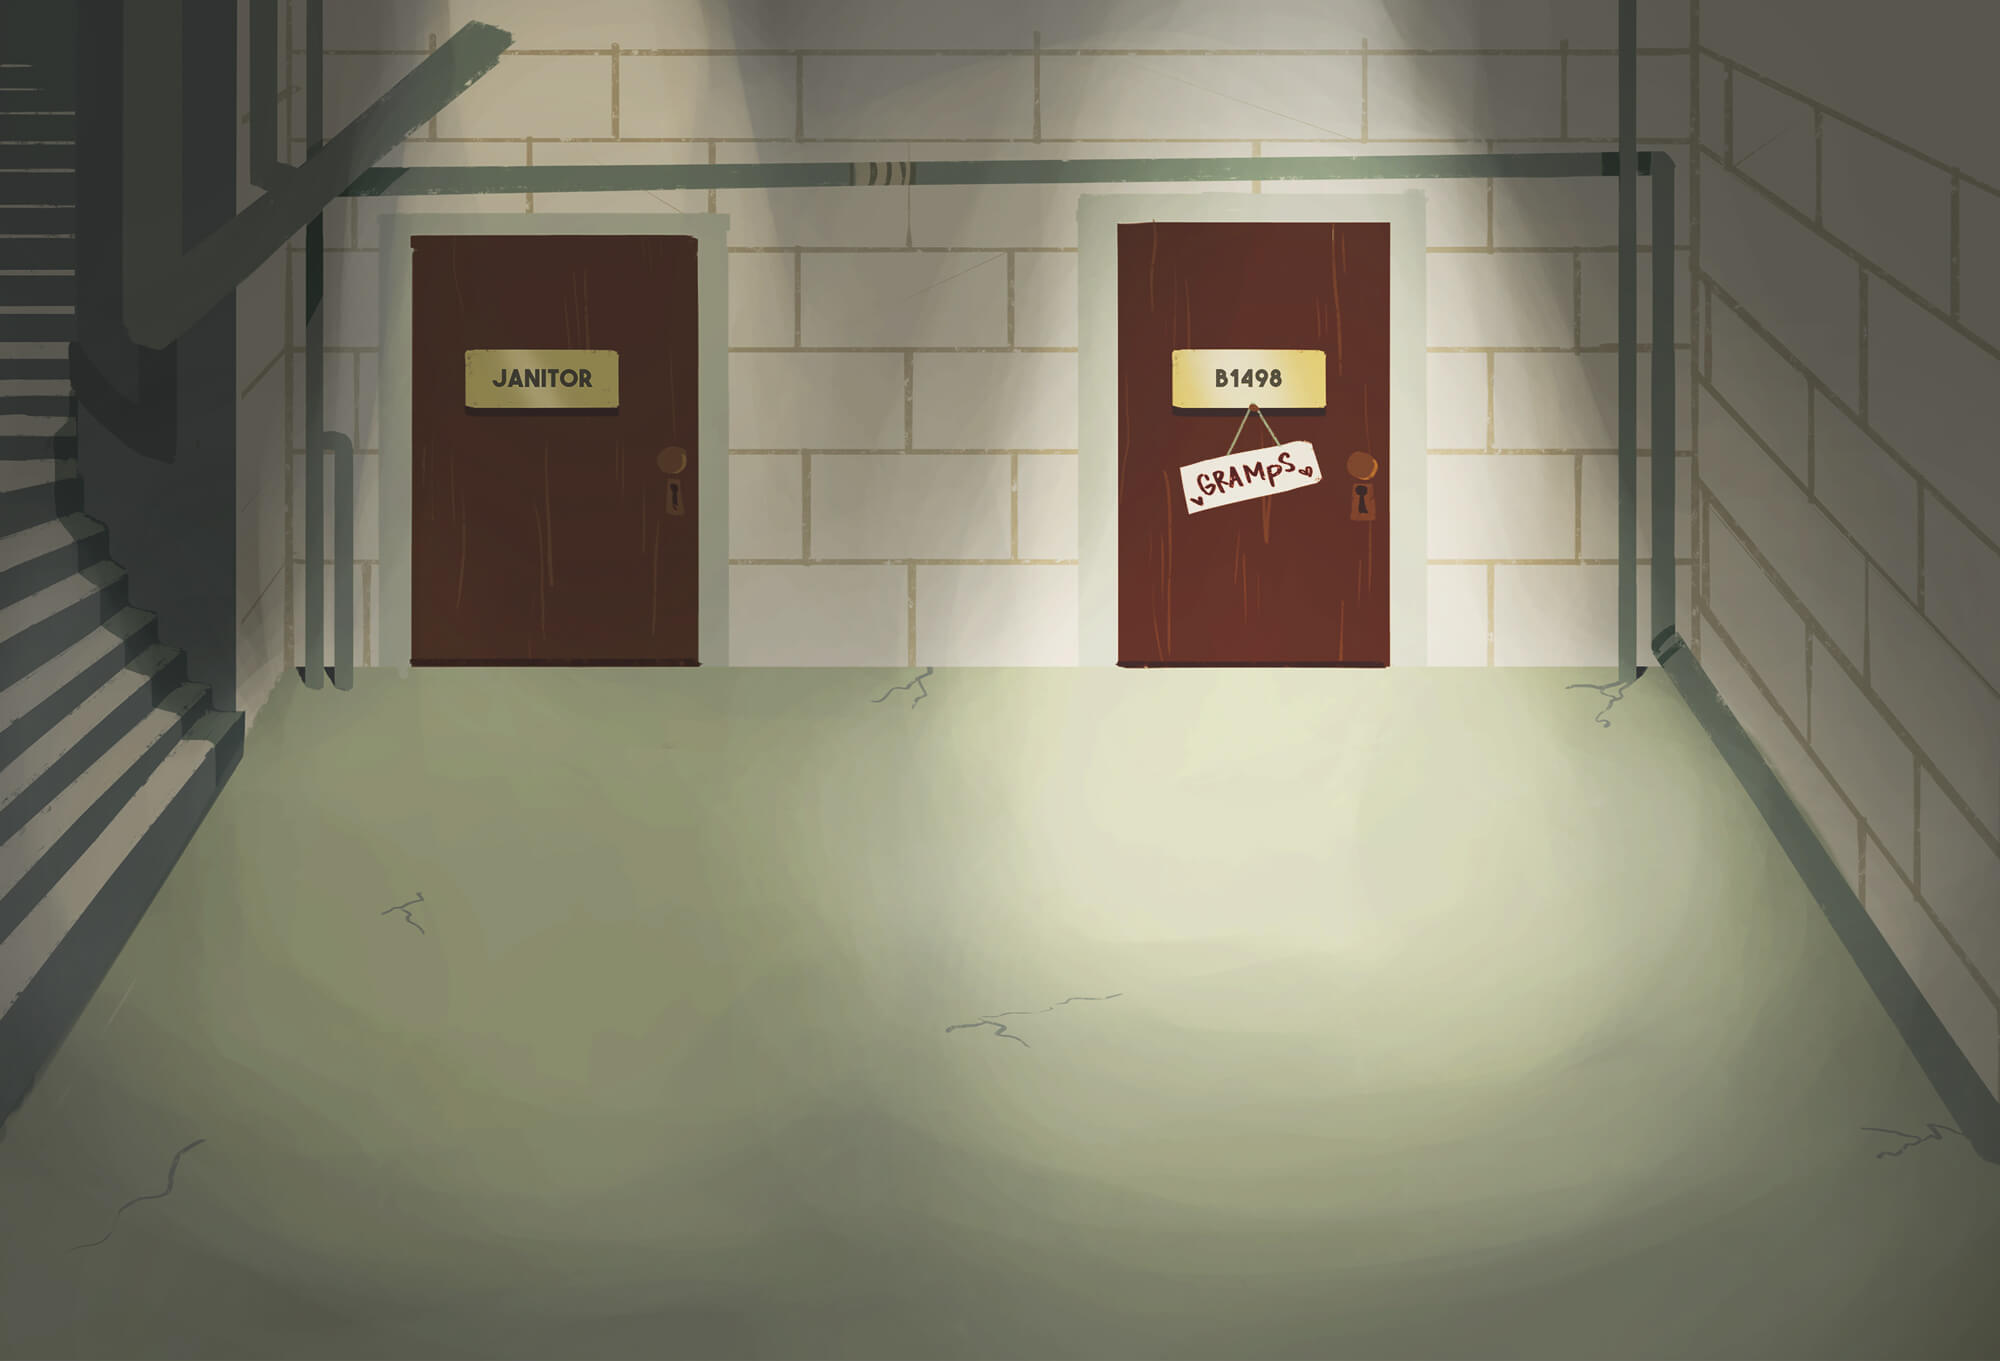
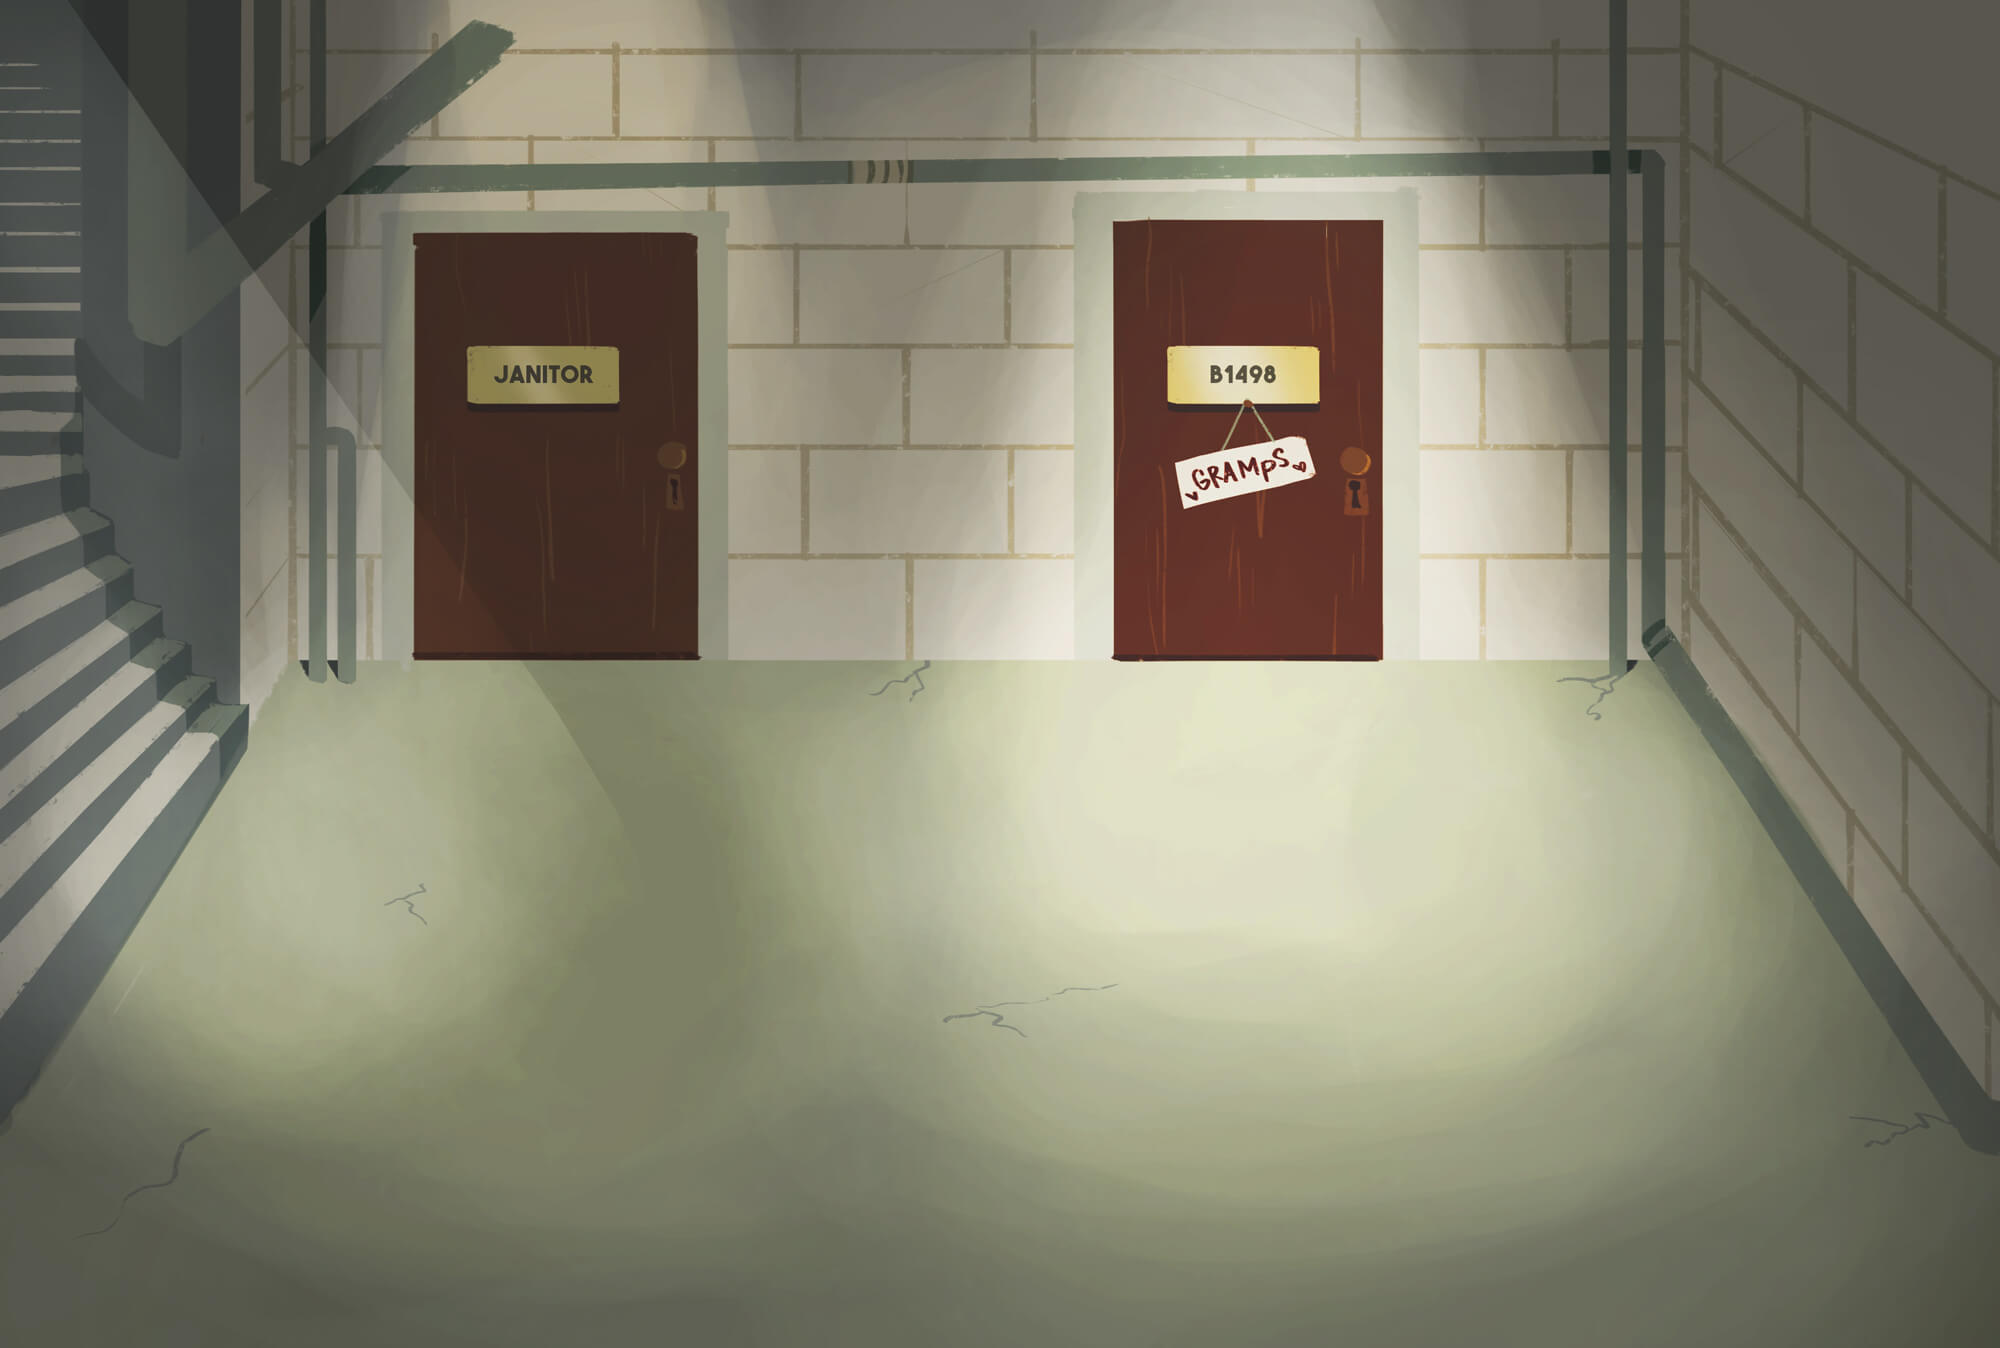
lighting fixes in basement

diff --git a/engine/data.js b/engine/data.js
@@ -27,7 +27,7 @@ tmp_level.id = "tunic";
 tmp_level.fqid = "tunic";
 {
 tmp_level.primary = true;
-tmp_level.intro_room_id = "tunic.historicalsociety.closet";
+tmp_level.intro_room_id = "tunic.library.frontdesk";
 tmp_level.avatar_walk_animcycle_id = "avatar_walk";
 tmp_level.avatar_idle_animcycle_id = "avatar_idle";
 tmp_level.avatar_act_animcycle_id = "avatar_act";

diff --git a/src/scenes/data.js b/src/scenes/data.js
@@ -27,7 +27,7 @@ tmp_level.id = "tunic";
 tmp_level.fqid = "tunic";
 {
 tmp_level.primary = true;
-tmp_level.intro_room_id = "tunic.historicalsociety.closet";
+tmp_level.intro_room_id = "tunic.library.frontdesk";
 tmp_level.avatar_walk_animcycle_id = "avatar_walk";
 tmp_level.avatar_idle_animcycle_id = "avatar_idle";
 tmp_level.avatar_act_animcycle_id = "avatar_act";
